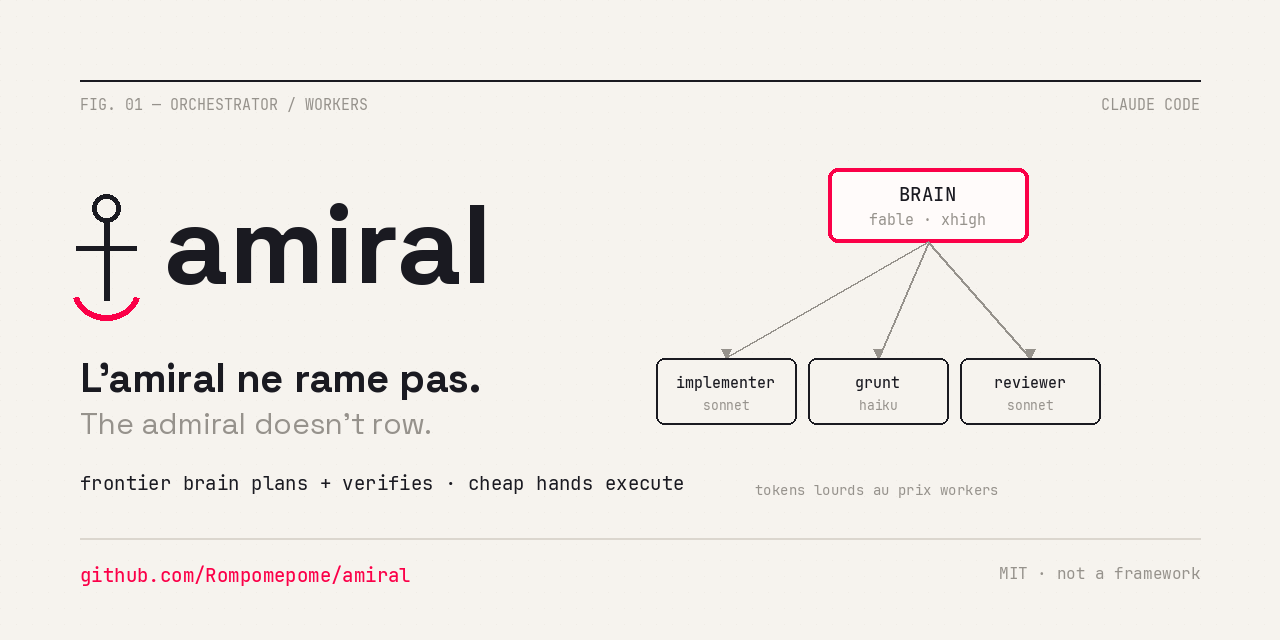
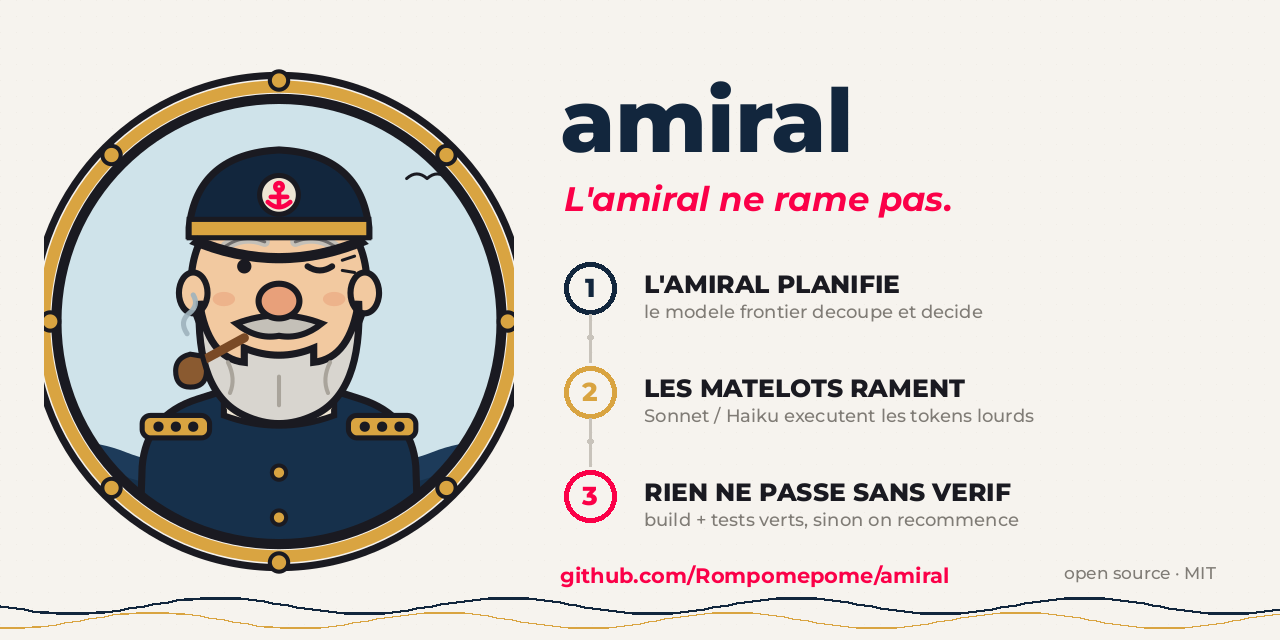
assets: original sea-dog admiral character + 3-step schema preview
Original flat-comic admiral in a brass porthole (grey beard, navy coat,
gold epaulettes, anchor cap badge, pipe) — original design, no
copyrighted character reproduced. Right column: amiral wordmark,
tagline, and a 3-step schema (plan / execute / verify) in Montserrat.
Character SVG source kept in assets/ for reuse.

diff --git a/CHANGELOG.md b/CHANGELOG.md
@@ -1,5 +1,13 @@
 # Changelog
 
+## v0.4.4 — 2026-07-03
+- New social preview: original old-sea-dog admiral character (flat
+  comic style, porthole frame) + a clear 3-step schema in Montserrat.
+  Original design — not derived from any copyrighted character.
+- assets/admiral-character.svg: the character source, reusable for
+  README, posts, stickers.
+
+
 ## v0.4.3 — 2026-07-03
 - Coherence sweep: purged 5 stale profile names (fable-fine,
   sonnet-fast) from quota-math, how-it-works and the quota-report